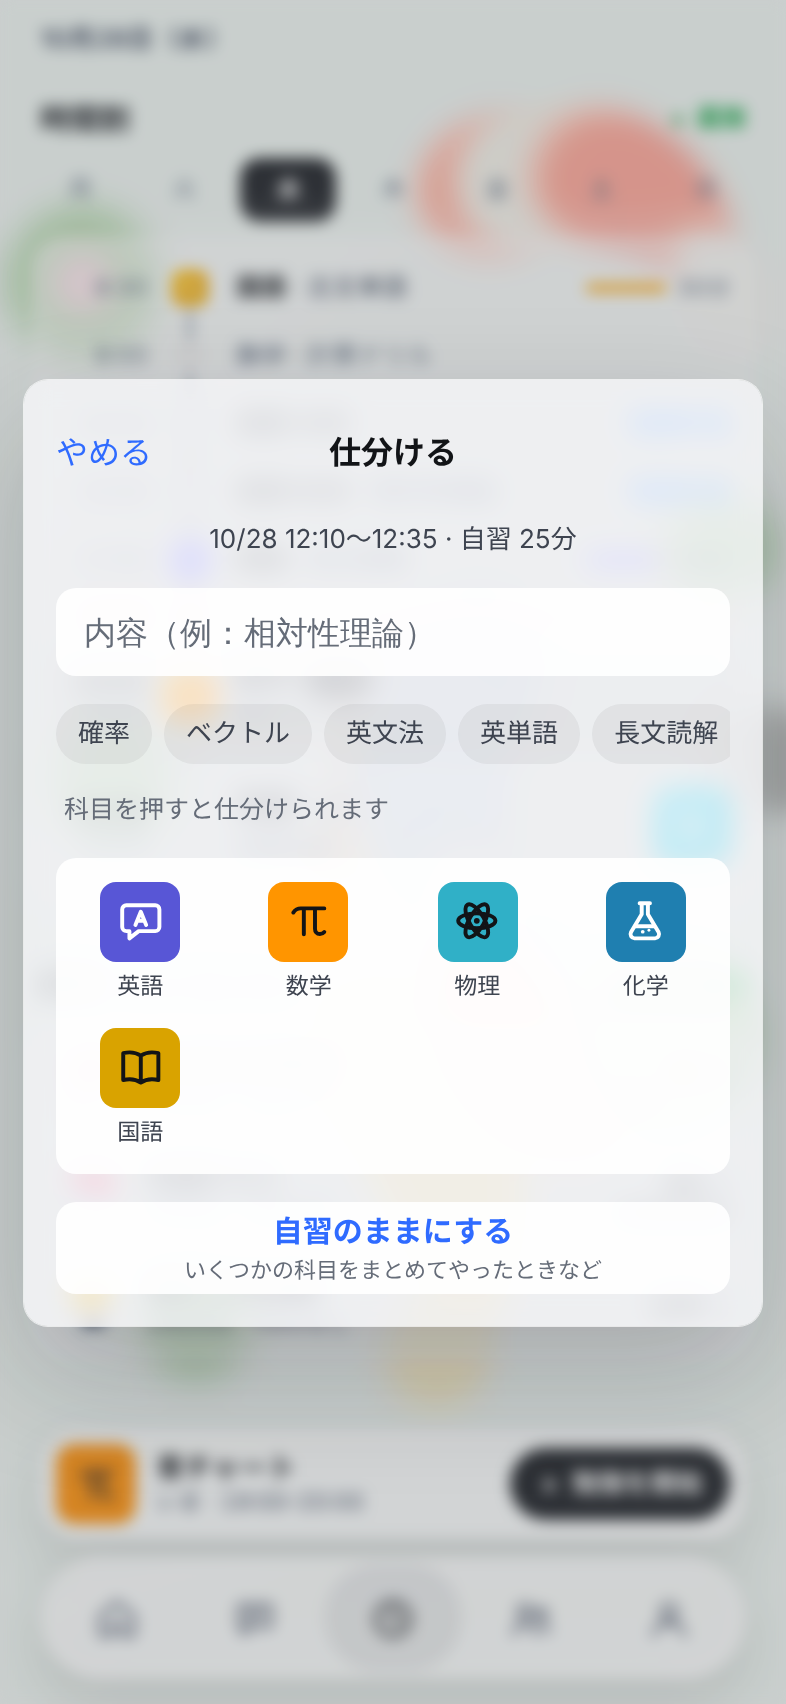
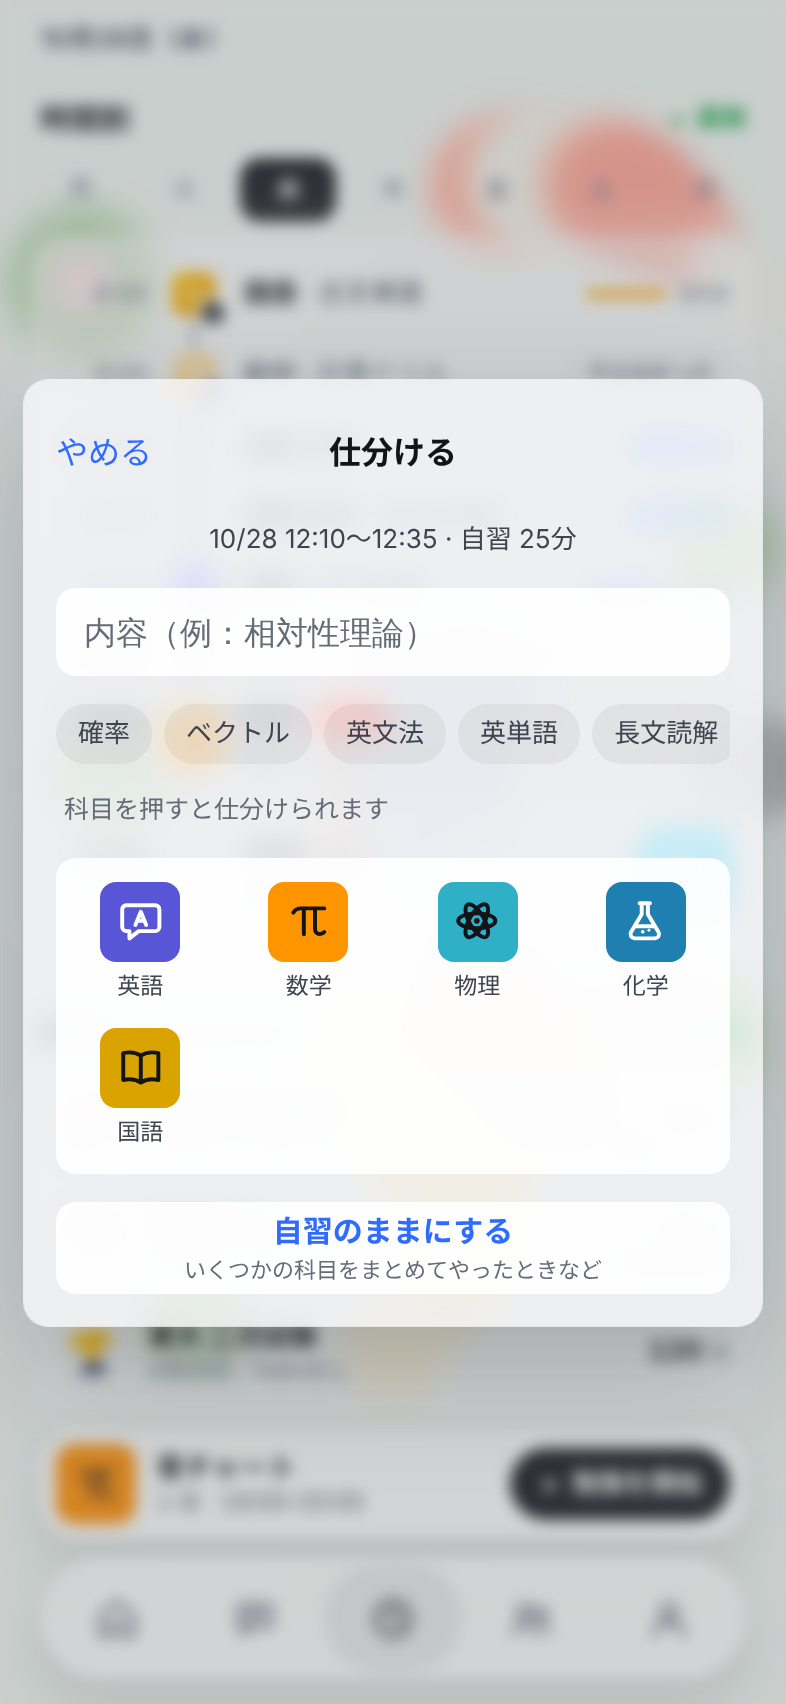
時間割: やった/やらなかったをひと目で、いまは赤い Now、次の予定のアイコンを大きく
- 終えた予定: 色そのままの小さなアイコンに黒い ✓、名前は太字、右に分数のバー
- やらなかった予定: アイコンを薄く、灰色の ×、取り消し線、右に「やらなかった」
- 分数のない完了は緑の ✓ ではなく「完了」の文字に
- いまの予定のバッジを「いま」から赤い「Now」に（いまの赤い線と同じ赤）
- これからの予定のアイコンを 38 → 46、いまの予定の線上のアイコンも少し大きく

Claude-Session: https://claude.ai/code/session_01PvpTMF8how1FmECoesUyAb

diff --git a/inchly-app/src/app/(tabs)/study.tsx b/inchly-app/src/app/(tabs)/study.tsx
@@ -117,12 +117,13 @@ const clockOf = (m: number) => `${Math.floor(m / 60)}:${String(m % 60).padStart(
 // - the line solid where the day is behind you, dotted where it's still to come,
 //   and a thin red mark at this minute;
 // - every row on one grid (time · line · text · right end), so nothing drifts;
-// - what a stop is, by its shape: done, its icon small on the line (and, on the
-//   right, a small bar of the minutes against the plan, orange past it); its time
-//   gone by undone, an empty ring (crossed out); a 自習 not sorted yet, a dashed
-//   ring (仕分ける); to come, a small white ring (its icon on the right); the plan
-//   under way, its icon on the line itself.
-const TIME_W = 50, RAIL_W = 34, PAD = 12;
+// - what a stop is, by its shape: done, its icon small on the line with a black ✓
+//   (and, on the right, a small bar of the minutes against the plan, orange past
+//   it); its time gone by undone, its icon faded with a gray ×, crossed out, and
+//   やらなかった; a 自習 not sorted yet, a dashed ring (仕分ける); to come, a small
+//   white ring (its icon, larger, on the right); the plan under way, its icon on
+//   the line itself and a red Now.
+const TIME_W = 50, RAIL_W = 38, PAD = 12;
 const rowStyle = { flexDirection: 'row' as const, alignItems: 'center' as const, paddingHorizontal: PAD };
 const OVER = '#FF9F0A';
 const NOW_RED = '#FF3B30';
@@ -157,7 +158,7 @@ function Rail({ first, last, ahead, children }: { first?: boolean; last?: boolea
 }
 /** The card's own white, solid (a ring around a node so the line seems to pass behind it). */
 const useBlank = () => (useT().dark ? '#24272B' : '#FFFFFF');
-function Node({ kind }: { kind: 'miss' | 'free' | 'later' }) {
+function Node({ kind }: { kind: 'free' | 'later' }) {
   const t = useT();
   const blank = useBlank();
   const d = kind === 'later' ? 10 : 12;
@@ -175,10 +176,24 @@ function TimeCol({ children }: { children: ReactNode }) {
 function Clock({ children, ...p }: Parameters<typeof Txt>[0]) {
   return <Txt num numberOfLines={1} adjustsFontSizeToFit minimumFontScale={0.8} {...p}>{children}</Txt>;
 }
-/** A finished plan's icon, small on the line (on the card's white, so the line seems to pass behind it). */
-function DoneArt({ b }: { b: Block }) {
+/**
+ * A plan behind you, its icon small on the line (on the card's white, so the line
+ * seems to pass behind it), told apart at a glance: done, in full color with a
+ * black ✓ badge; not done, faded with a gray × badge.
+ */
+function StopArt({ b, done }: { b: Block; done: boolean }) {
+  const t = useT();
+  const blank = useBlank();
   const sj = subj(b.s);
-  return <View style={{ padding: 2, borderRadius: 7, backgroundColor: useBlank() }}><PlanArt icon={b.icon} name={sj.name} color={sj.c} size={18} radius={5} /></View>;
+  return (
+    <View style={{ padding: 2, borderRadius: 8, backgroundColor: blank }}>
+      <View style={{ opacity: done ? 1 : 0.32 }}><PlanArt icon={b.icon} name={sj.name} color={sj.c} size={22} radius={6} /></View>
+      <View style={{ position: 'absolute', right: -4, bottom: -4, width: 15, height: 15, borderRadius: 7.5, borderWidth: 2, borderColor: blank,
+        backgroundColor: done ? t.ink : t.ink3, alignItems: 'center', justifyContent: 'center' }}>
+        <Icon name={done ? 'check' : 'x'} size={8} color={done ? t.onInk : blank} width={3} />
+      </View>
+    </View>
+  );
 }
 
 /** Behind you: one thin line. */
@@ -202,21 +217,25 @@ function StopRow({ st, first, last }: { st: Stop; first: boolean; last: boolean 
   return (
     <Press onPress={() => blockSheet(b)} scale={0.99}
       accessibilityLabel={`${b.start ? `${b.start}から` : '時刻なし'} ${sj.name} ${b.t ?? ''}。${st.finished ? `終わった${st.min ? ` ${st.min}分${plan ? `（予定${plan}分）` : ''}` : ''}` : 'やらずに時間が過ぎた'}。編集`}
-      style={[rowStyle, { minHeight: 34 }]}>
+      style={[rowStyle, { minHeight: 40 }]}>
       <TimeCol><Clock size={12} tone="ink3">{b.start ?? '—'}</Clock></TimeCol>
-      <Rail first={first} last={last}>{st.finished ? <DoneArt b={b} /> : <Node kind="miss" />}</Rail>
-      <Txt size={12.5} tone={st.finished ? 'ink2' : 'ink3'} numberOfLines={1} style={{ flex: 1, minWidth: 0, paddingLeft: 6 }}>
-        <Txt size={12.5} w={st.finished ? '600' : '500'} tone={st.finished ? 'ink' : 'ink3'} style={st.finished ? null : { textDecorationLine: 'line-through' }}>{sj.name}</Txt>
+      <Rail first={first} last={last}><StopArt b={b} done={st.finished} /></Rail>
+      <Txt size={13} tone={st.finished ? 'ink2' : 'ink3'} numberOfLines={1} style={{ flex: 1, minWidth: 0, paddingLeft: 6 }}>
+        <Txt size={13} w={st.finished ? '700' : '500'} tone={st.finished ? 'ink' : 'ink3'} style={st.finished ? null : { textDecorationLine: 'line-through' }}>{sj.name}</Txt>
         {b.note || b.t ? ` · ${b.note || b.t}` : ''}
       </Txt>
-      {st.finished ? <Meter min={st.min} plan={plan} color={sj.c} /> : null}
+      {st.finished ? <Meter min={st.min} plan={plan} color={sj.c} /> : (
+        <View style={{ marginLeft: 8, paddingHorizontal: 7, height: 20, borderRadius: 10, borderWidth: hair, borderColor: t.line2, justifyContent: 'center' }}>
+          <Txt size={10.5} w="600" tone="ink3">やらなかった</Txt>
+        </View>
+      )}
     </Press>
   );
 }
 /** How long it was studied against its plan: a small bar in the subject's color (orange on past the plan), and the minutes. */
 function Meter({ min, plan, color }: { min: number; plan: number; color: string }) {
   const t = useT();
-  if (!min) return <Txt size={12} w="700" color={t.greenInk}>✓</Txt>;
+  if (!min) return <Txt size={11.5} w="600" tone="ink2" style={{ marginLeft: 8 }}>完了</Txt>;
   const done = plan ? Math.min(1, min / plan) : 1;
   const extra = plan && min > plan ? Math.min(0.4, (min - plan) / plan) : 0;
   return (
@@ -248,24 +267,33 @@ function AheadRow({ b, live, next, last }: { b: Block; live: boolean; next: bool
   return (
     <Press onPress={() => blockSheet(b)} scale={0.99} accessibilityLabel={`${b.start ? `${b.start}から` : '時刻なし'} ${sj.name} ${b.t ?? ''}${live ? '。いまの予定' : next ? '。つぎの予定' : ''}。編集`}
       // the live row's gray ground is inset, and its padding takes up the inset, so its columns stay on the grid
-      style={[rowStyle, { minHeight: 58 }, live ? { marginHorizontal: 6, paddingHorizontal: PAD - 6, borderRadius: 12, backgroundColor: t.sunken } : null]}>
+      style={[rowStyle, { minHeight: 64 }, live ? { marginHorizontal: 6, paddingHorizontal: PAD - 6, borderRadius: 12, backgroundColor: t.sunken } : null]}>
       <TimeCol><Times b={b} /></TimeCol>
       <Rail ahead={!live} last={last}>
         {live ? (
-          <View style={{ padding: 3, borderRadius: 10, backgroundColor: blank }}><PlanArt icon={b.icon} name={sj.name} color={sj.c} size={26} radius={7} /></View>
+          <View style={{ padding: 3, borderRadius: 10, backgroundColor: blank }}><PlanArt icon={b.icon} name={sj.name} color={sj.c} size={30} radius={8} /></View>
         ) : <Node kind="later" />}
       </Rail>
       <View style={{ flex: 1, minWidth: 0, paddingLeft: 6, paddingRight: 8 }}>
         <View style={{ flexDirection: 'row', alignItems: 'center', gap: 6 }}>
           <Txt size={14.5} w="700" numberOfLines={1} style={{ flexShrink: 1 }}>{sj.name}</Txt>
-          {live ? <View style={{ paddingHorizontal: 6, height: 18, borderRadius: 9, backgroundColor: t.ink, justifyContent: 'center' }}><Txt size={10} w="800" color={t.onInk}>いま</Txt></View> : null}
+          {live ? <NowBadge /> : null}
           {next ? <Txt size={11} w="600" tone="ink3">つぎ</Txt> : null}
           {b.date ? <Txt size={11} w="600" tone="ink3">この日だけ</Txt> : null}
         </View>
         {b.note || b.t ? <Txt size={12} tone="ink2" numberOfLines={1}>{b.note || b.t}</Txt> : null}
       </View>
-      {live ? null : <PlanArt icon={b.icon} name={sj.name} color={sj.c} size={38} radius={9} />}
+      {live ? null : <PlanArt icon={b.icon} name={sj.name} color={sj.c} size={46} radius={11} />}
     </Press>
+  );
+}
+
+/** The plan under way: Now, in the same red as this minute's mark. */
+function NowBadge() {
+  return (
+    <View style={{ paddingHorizontal: 7, height: 18, borderRadius: 9, backgroundColor: NOW_RED, justifyContent: 'center' }}>
+      <Txt size={10.5} w="800" color="#FFFFFF" lh={13}>Now</Txt>
+    </View>
   );
 }
 
@@ -280,7 +308,7 @@ function Times({ b }: { b: Block }) {
   );
 }
 
-/** A plan as a row: the time, its icon, the subject with いま / つぎ, and the memo (no memo: what to do). */
+/** A plan as a row: the time, its icon, the subject with Now / つぎ, and the memo (no memo: what to do). */
 function PlanRow({ b, live, next, first }: { b: Block; live: boolean; next: boolean; first: boolean }) {
   const t = useT();
   const sj = subj(b.s);
@@ -293,7 +321,7 @@ function PlanRow({ b, live, next, first }: { b: Block; live: boolean; next: bool
       <View style={{ flex: 1, minWidth: 0 }}>
         <View style={{ flexDirection: 'row', alignItems: 'center', gap: 6 }}>
           <Txt size={14.5} w="700" numberOfLines={1} style={{ flexShrink: 1 }}>{sj.name}</Txt>
-          {live ? <View style={{ paddingHorizontal: 6, height: 18, borderRadius: 9, backgroundColor: t.ink, justifyContent: 'center' }}><Txt size={10} w="800" color={t.onInk}>いま</Txt></View> : null}
+          {live ? <NowBadge /> : null}
           {next ? <Txt size={11} w="600" tone="ink3">つぎ</Txt> : null}
           {b.date ? <Txt size={11} w="600" tone="ink3">この日だけ</Txt> : null}
         </View>
